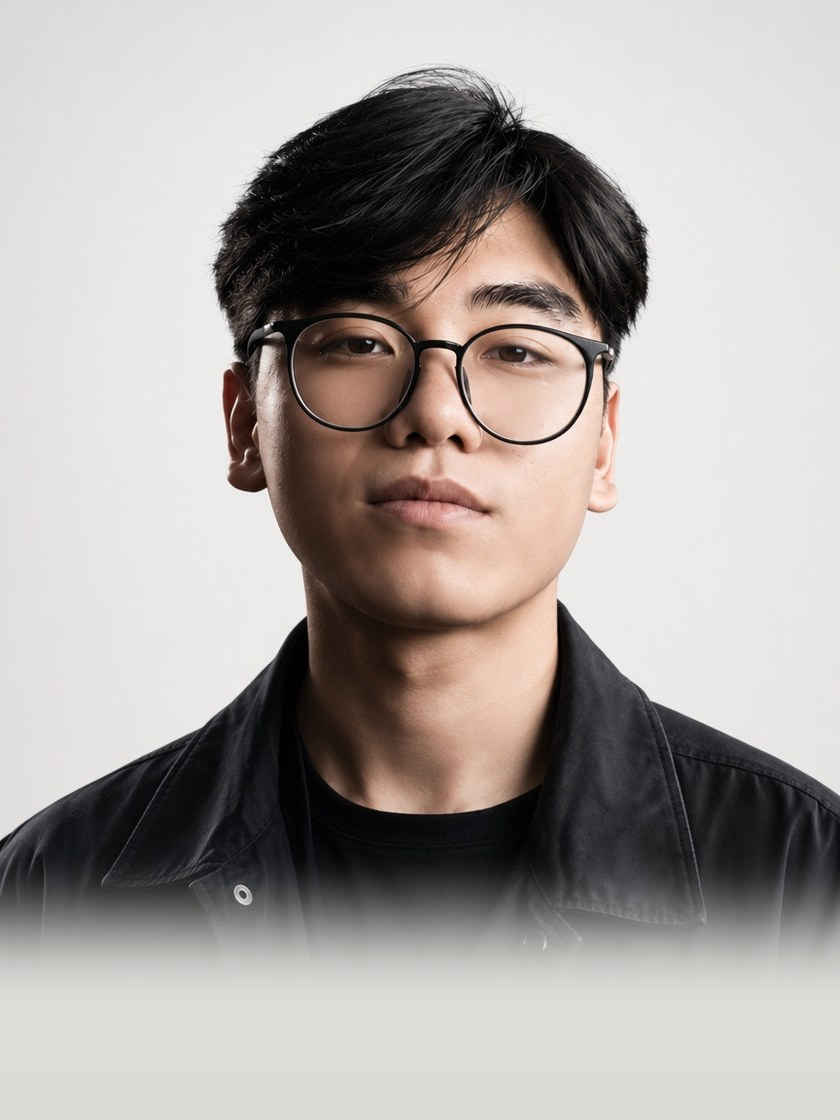
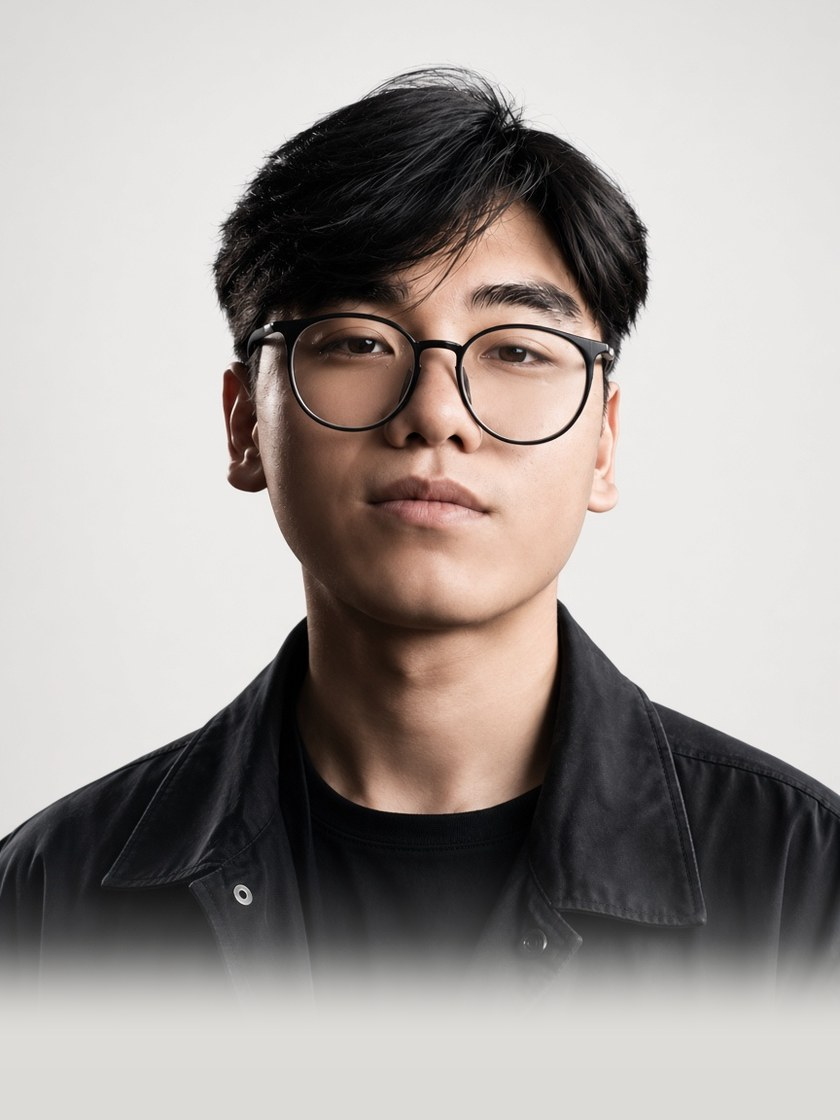
update section

Changed region(s): [[0.0, 0.7812, 1.0, 0.9062]]

diff --git a/content/people.ts b/content/people.ts
@@ -18,8 +18,13 @@ export const organizers: Organizer[] = [
     viewBox: "0 0 272 92",
   },
   { id: "openacc", name: "OpenACC" },
-  { id: "assemblyai", name: "AssemblyAI" },
-  { id: "lablab", name: "lablab.ai" },
+  {
+    id: "assemblyai",
+    name: "AssemblyAI",
+    logo: "/brand/logos/assemblyai.svg",
+    viewBox: "0 0 161 28",
+  },
+  { id: "lablab", name: "lablab.ai", logo: "/brand/logos/lablab.png", viewBox: "0 0 330 285" },
   { id: "openai", name: "OpenAI", logo: "/brand/logos/openai.svg", viewBox: "0 0 1180 320" },
   { id: "devpost", name: "Devpost", logo: "/brand/logos/devpost.svg", viewBox: "0 0 24 24" },
   { id: "amd", name: "AMD", logo: "/brand/logos/amd.svg", viewBox: "0 7.4 24 9.2" },

diff --git a/app/[lang]/about/team/page.tsx b/app/[lang]/about/team/page.tsx
@@ -62,7 +62,7 @@ export default async function TeamPage({ params }: Props) {
                       />
                     </div>
 
-                    <div className="relative -mt-12 flex flex-1 flex-col gap-5 px-7 pb-8 md:-mt-16 md:px-10 md:pb-10">
+                    <div className="relative -mt-4 flex flex-1 flex-col gap-5 px-7 pb-8 md:-mt-6 md:px-10 md:pb-10">
                       <p className="eyebrow flex items-center gap-2 text-graphite-ink">
                         <span aria-hidden="true" className="h-px w-5 bg-signal" />
                         {t.experience}

diff --git a/components/home/Sections.tsx b/components/home/Sections.tsx
@@ -39,7 +39,7 @@ export function LogoMarquee({ label }: { label: string }) {
                       <img
                         src={organizer.logo}
                         alt={organizer.name}
-                        className="max-h-10 max-w-full object-contain"
+                        className={`${organizer.id === "tide" ? "max-h-[34px]" : "max-h-10"} max-w-full object-contain`}
                       />
                     ) : (
                       <span className="text-[19px] font-medium tracking-[-0.01em] whitespace-nowrap">

diff --git a/app/globals.css b/app/globals.css
@@ -677,9 +677,6 @@ html.js .reveal.is-visible .rail-node {
 .marquee-slow {
   animation-duration: 70s;
 }
-.marquee-slow:hover {
-  animation-play-state: paused;
-}
 @keyframes marquee {
   to {
     transform: translateX(-50%);
